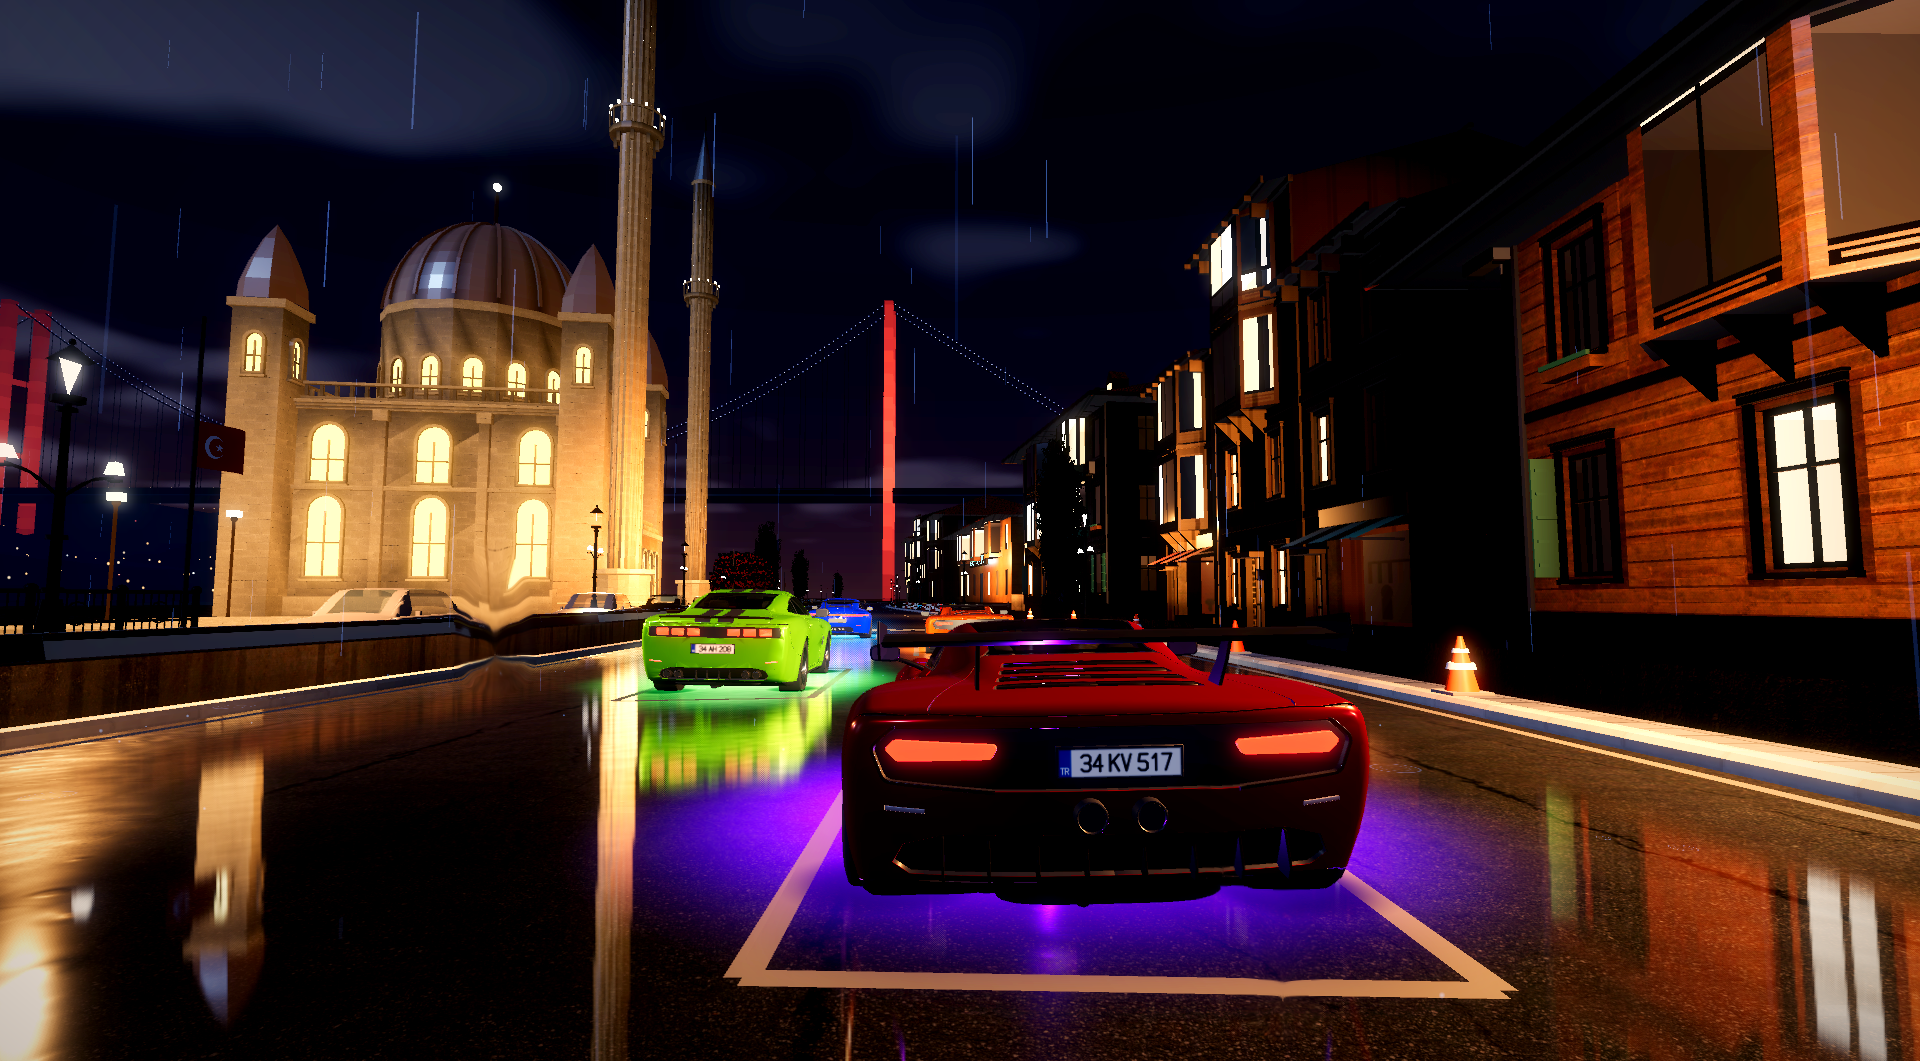
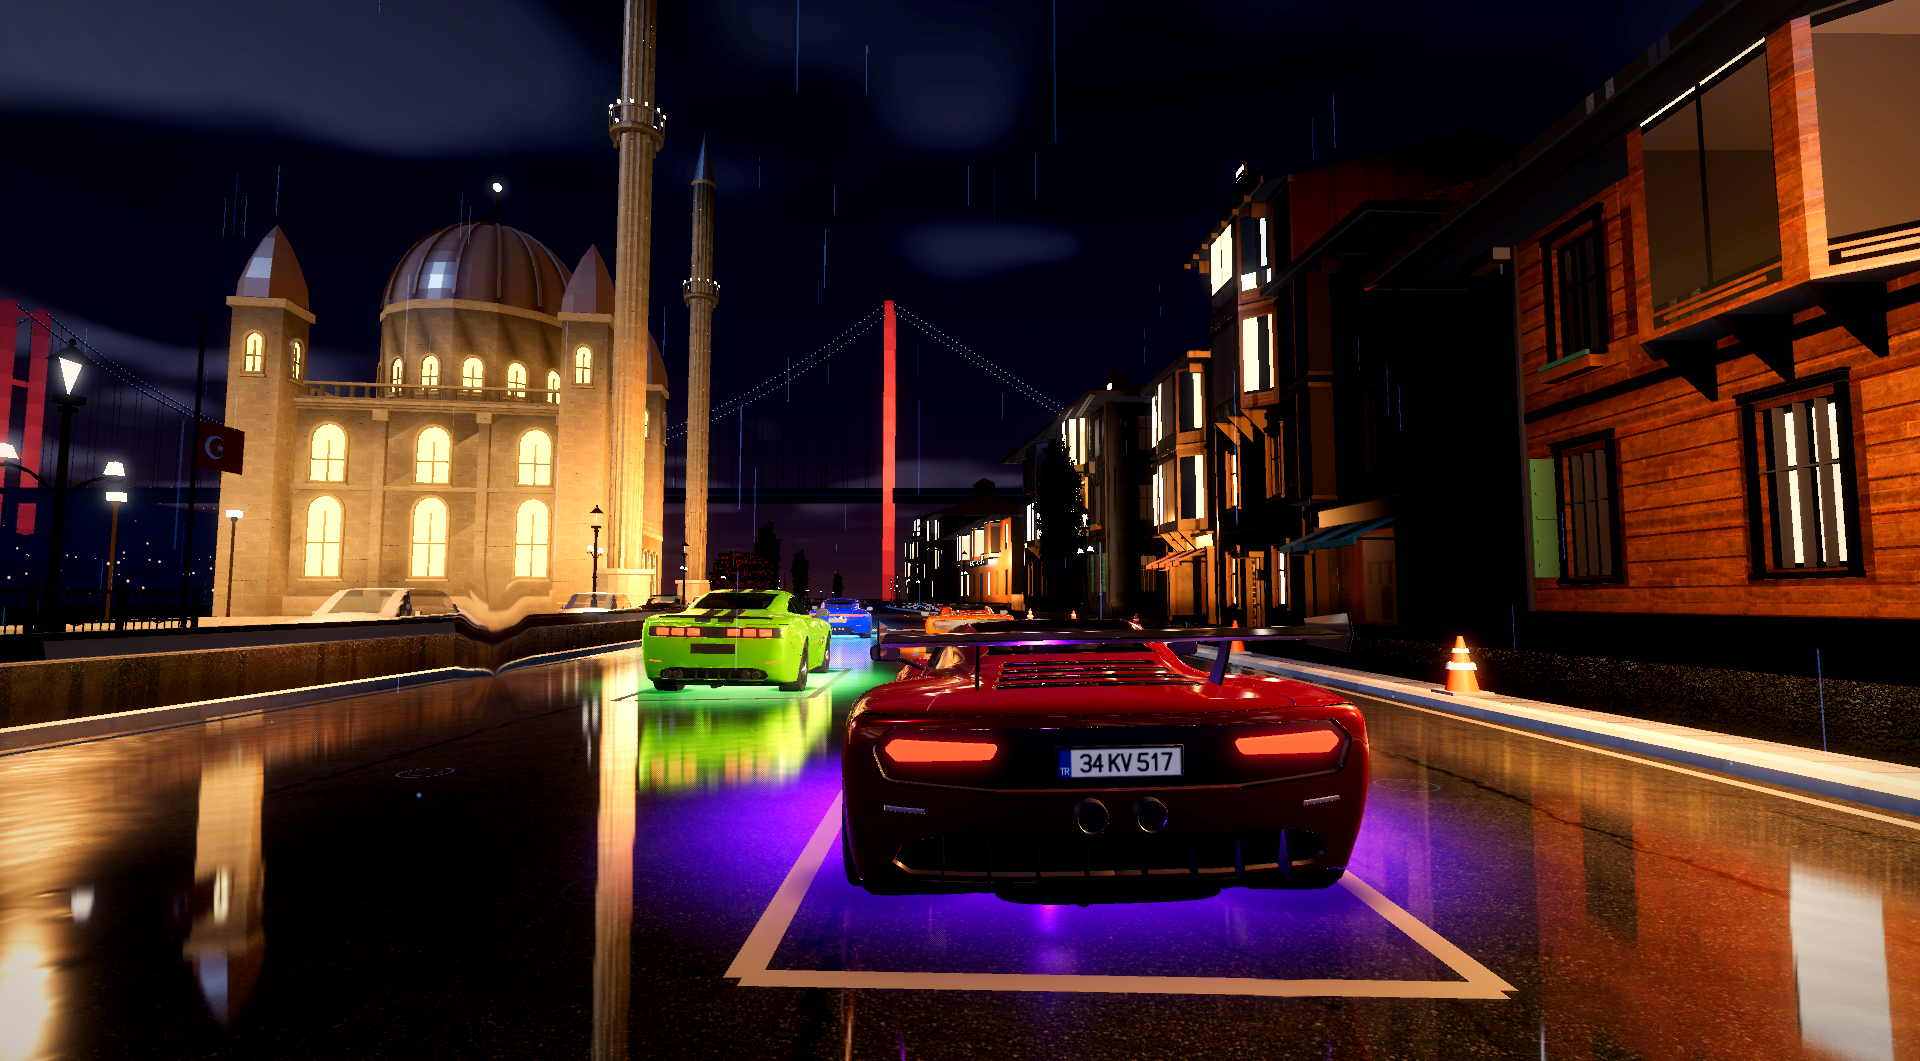
Evidence refresh after facade pass 2: 309 tests green, peaks 389 draws / 413k primitives

diff --git a/evidence/PROGRESS.md b/evidence/PROGRESS.md
@@ -1,11 +1,11 @@
 # Graphics rescue progress (max 30 lines)
 
-- HEAD: 3ca478f on feature/vertical-slice (last pushed c191d50; no push since the rescue package arrived). Main untouched.
+- HEAD: ad4ff37 on feature/vertical-slice (last pushed c191d50; no push since the rescue package arrived). Main untouched.
 - Engine: Godot 4.7.2 stable, Mobile renderer. Device: Windows 11, RTX 5060 Ti 8 GB. No Mac, no iPhone test.
 - Run the benchmark: `godot --audio-driver Dummy --path game --resolution 1920x1080 --position 20000,0 res://devtools/capture_boot.tscn -- --capture=ortakoy_benchmark [--tod=day|sunset|night]`
 - Last valid state: 309 tests, 0 failed (evidence/test.log); asset manifest 534 records, 0 failing; third_party_assets.json 0 errors.
 - Evidence (real engine captures): evidence/before.png, after_day.png, after_night.png, gameplay.png; all 15 benchmark shots in evidence/screens/ortakoy_benchmark/; Blender previews in evidence/car_preview/ and assets_src/third_party/vinish_cars/renders/.
-- Performance, night gameplay shot (3 licensed rivals): 320 fps, 3.13 ms avg, 4.07 ms p95, 395 draws, 416k primitives; peak of all shots 431k primitives of 450k (desktop, uncapped, not iPhone).
+- Performance, night gameplay shot (3 licensed rivals): 310 fps, 3.22 ms avg, 3.96 ms p95, 389 draws, 388k primitives; peak of all shots 413k primitives of 450k (desktop, uncapped, not iPhone).
 
 ## Gates (MIDNIGHT_RESCUE/03_QUALITY_GATE.md)
 - G0 baseline: done. G1 car: six licensed CC BY 4.0 cars in the game (starter Noctra Tayfun; rivals drawn from them), credits shown in settings.
@@ -14,12 +14,12 @@
 - G4 gameplay: real race, live HUD, 306 regression tests green. G5: desktop numbers only. G6: waiting for the owner's review.
 
 ## Three open flaws
-1. House fronts and roofs are still simple from the road; primitive headroom is 4 %, so more geometry needs cuts elsewhere (mirror pass, LOD ranges).
+1. House fronts: pass 2 done (shop fronts, hips, oriels) but the art review did not approve it; fronts still read as planes, LOD1 houses plain, near timber row dark at night.
 2. Mosque stone is flat cream by day; amber indicators on the licensed cars do not glow; old saves keep the Sable until the free Tayfun is picked in the garage.
 3. Trees are dark card clusters; no spectators; no rain beads on paint.
 
 ## Next single task
-Owner review of the captures (gate G6). Then: house roofs and facade depth, or spectators, by the owner's choice.
+Owner review of the captures (gate G6). Then trees and road edge, or a third facade pass with a real LOD1.
 
 ## Blockers
 B1/B2 no Mac or iPhone; B9 unsigned exe blocked by Smart App Control; B10 Blender MCP not connected (headless scripts used);
